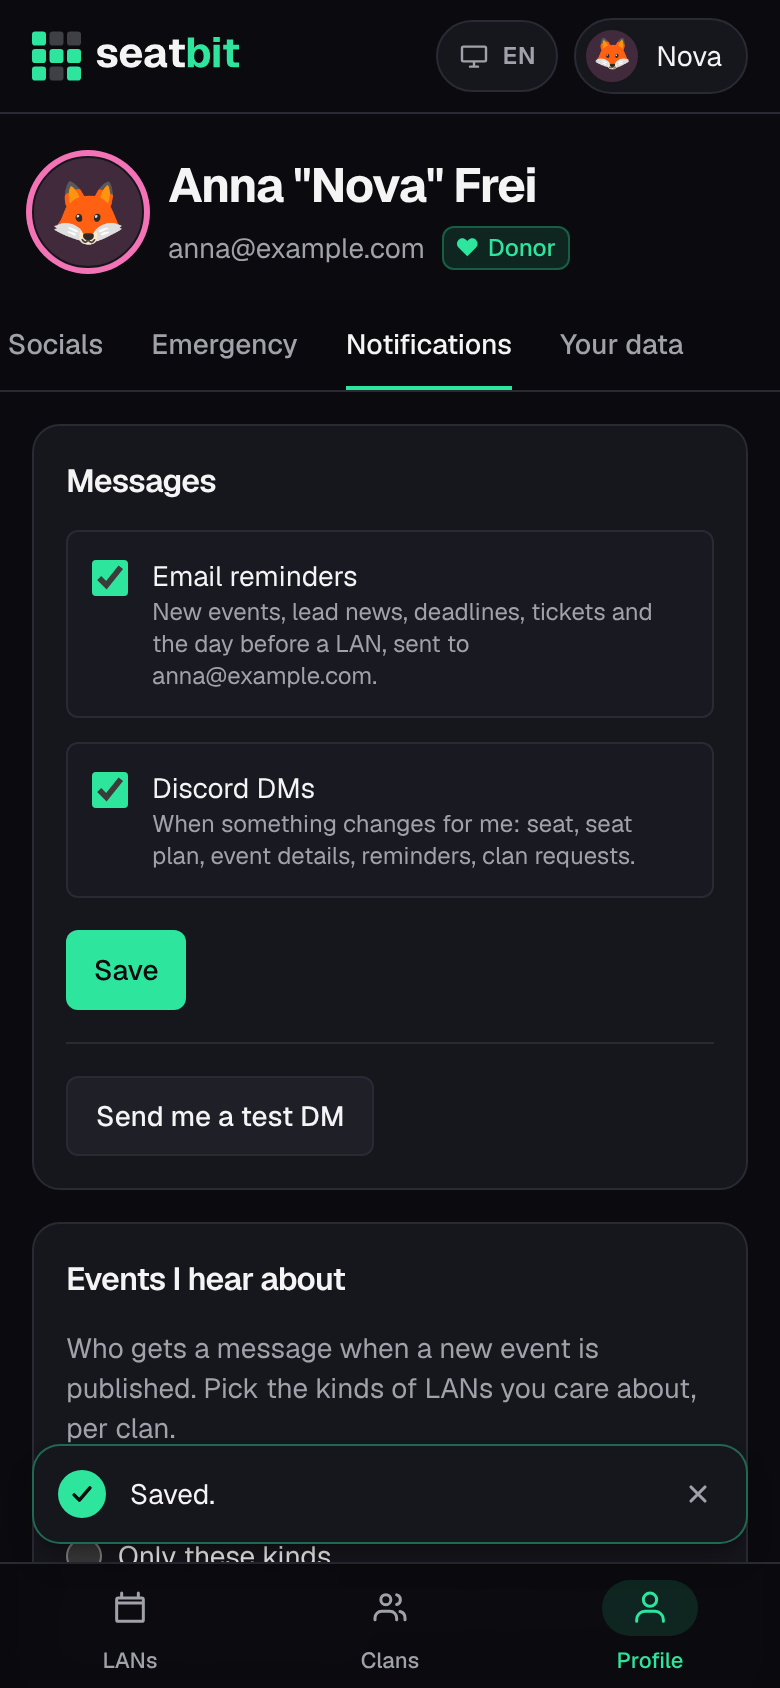
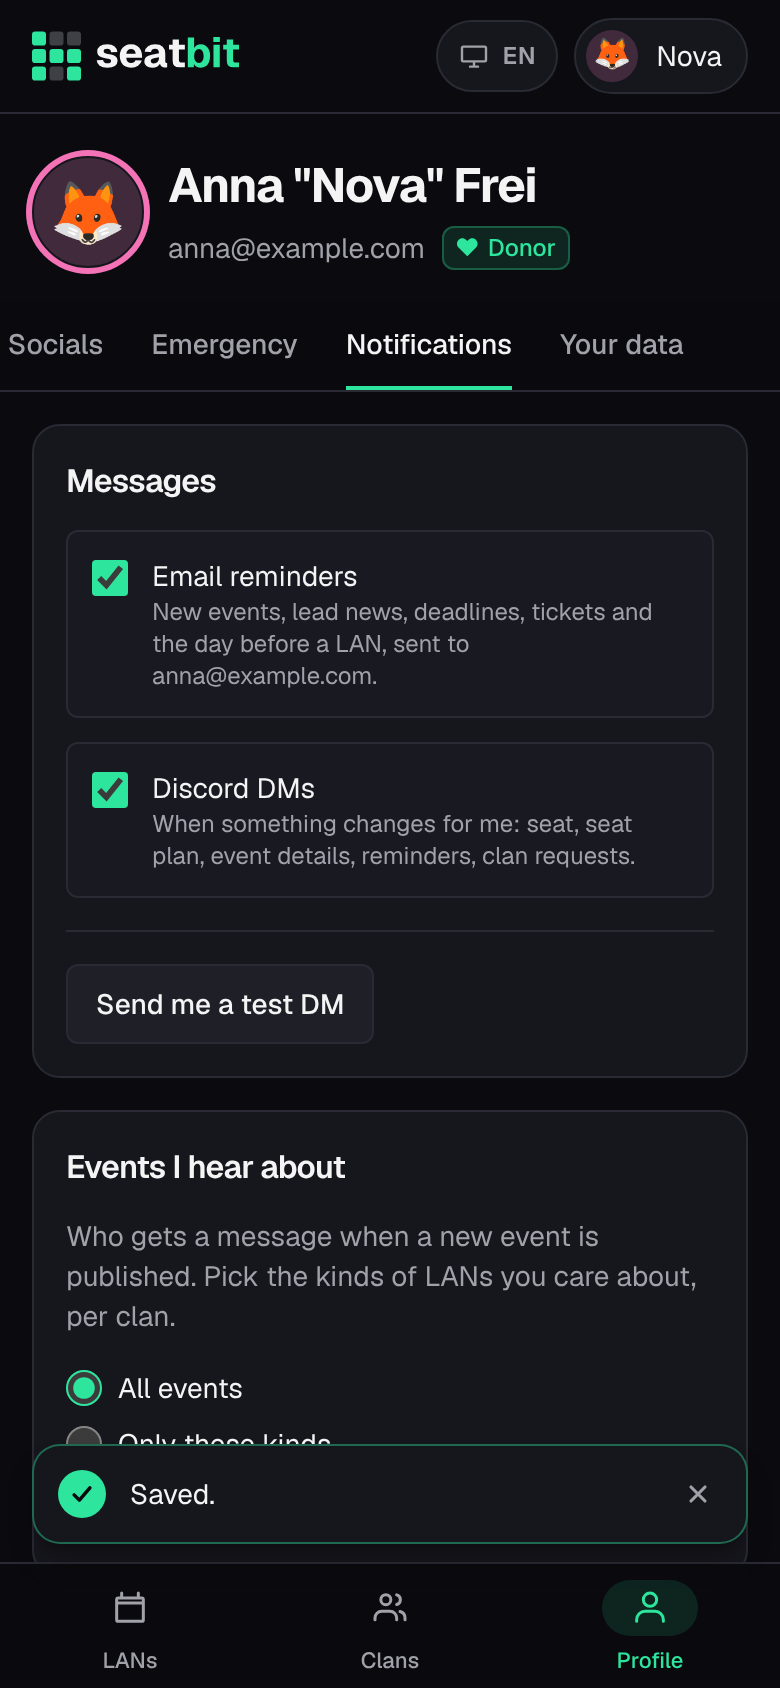
Auto-save simple settings, without a Save button
Checkboxes, radios, selects and file inputs save as soon as they change
(notifications, avatar, platform roles, the LAN type's clan to-dos,
payments on/off); nick and LAN ID save when the field loses focus or on
Enter. The toast reports the result.

Claude-Session: https://claude.ai/code/session_01Mn3pyor3MfxyQCwWyq6QEL

diff --git a/src/components/action-form.tsx b/src/components/action-form.tsx
@@ -1,5 +1,5 @@
 "use client";
-import { useActionState, useCallback, type ComponentProps } from "react";
+import { useActionState, useCallback, type ComponentProps, type FocusEvent, type FormEvent } from "react";
 import { unstable_rethrow } from "next/navigation";
 import { useT } from "@/i18n/client";
 import { actionErrorText } from "@/lib/action-error";
@@ -93,6 +93,33 @@ export function useToastAction<S, P = FormData>(action: (state: Awaited<S>, payl
   }, initial);
 }
 
+const isToggle = (el: Element) =>
+  el instanceof HTMLSelectElement || (el instanceof HTMLInputElement && ["checkbox", "radio", "file"].includes(el.type));
+const isText = (el: Element) =>
+  el instanceof HTMLTextAreaElement ||
+  (el instanceof HTMLInputElement && ["text", "search", "email", "url", "tel", "number"].includes(el.type));
+
+/**
+ * Auto-save for a form: spread on the <form>. "toggles" saves when a checkbox, radio, select or
+ * file changes (the form keeps its Save button for its text); "all" also saves a text field when
+ * it loses focus with a new value (Enter submits as usual), so the form needs no Save button.
+ * The toast says whether it worked.
+ */
+export function autoSave(mode: "toggles" | "all") {
+  return {
+    onChange: (e: FormEvent<HTMLFormElement>) => {
+      if (isToggle(e.target as Element)) e.currentTarget.requestSubmit();
+    },
+    onBlur:
+      mode === "all"
+        ? (e: FocusEvent<HTMLFormElement>) => {
+            const el = e.target as unknown as HTMLInputElement | HTMLTextAreaElement;
+            if (isText(el) && el.value !== el.defaultValue) e.currentTarget.requestSubmit();
+          }
+        : undefined,
+  };
+}
+
 /**
  * A form that runs a server action and toasts the outcome. Usable from server components.
  * `done` picks the success note ("Saved." by default); false for none, e.g. when the action
@@ -102,14 +129,17 @@ export function ActionForm({
   action,
   done = "saved",
   success,
+  auto,
   ...props
 }: Omit<ComponentProps<"form">, "action"> & {
   action: (form: FormData) => Promise<unknown>;
   done?: "saved" | "deleted" | "removed" | false;
   success?: string;
+  /** Save without a button, see autoSave(). */
+  auto?: "toggles" | "all";
 }) {
   const t = useT();
   const run = useRunAction();
   const text = success ?? (done && t(`toast.${done}`));
-  return <form {...props} action={(form) => run(() => action(form), text).then(() => undefined)} />;
+  return <form {...props} {...(auto ? autoSave(auto) : {})} action={(form) => run(() => action(form), text).then(() => undefined)} />;
 }

diff --git a/e2e/toasts.spec.ts b/e2e/toasts.spec.ts
@@ -1,5 +1,5 @@
 import { and, eq } from "drizzle-orm";
-import { attendance } from "../src/db/schema";
+import { attendance, user } from "../src/db/schema";
 import { createEvent, db, expect, test, userId } from "./fixtures";
 
 // Toasts: the note at the bottom after a save, and the reason when it failed.
@@ -7,12 +7,26 @@ test.describe("toasts", () => {
   test("a save shows a note at the bottom", async ({ as }) => {
     const page = await as("anna");
     await page.goto("/profile?tab=notifications");
-    await page.getByRole("button", { name: "Save", exact: true }).click();
+    // Saves as soon as the box changes, no Save button.
+    await expect(page.getByRole("button", { name: "Save", exact: true })).toHaveCount(0);
+    const reminders = () => db().select().from(user).where(eq(user.id, userId("anna"))).get()?.emailReminders;
+    const before = reminders();
+    await page.getByRole("checkbox", { name: /Email reminders/ }).click();
 
     const notes = page.getByRole("list", { name: "Notifications" });
     await expect(notes.getByText("Saved.")).toBeVisible();
     await notes.getByRole("button", { name: "Close" }).click();
     await expect(notes.getByText("Saved.")).toHaveCount(0);
+    await expect.poll(reminders).toBe(!before);
+  });
+
+  test("a nick saves when the field loses focus", async ({ as }) => {
+    const page = await as("anna");
+    await page.goto("/profile?tab=lans");
+    const nick = page.getByRole("textbox", { name: "Nickname" }).first();
+    await nick.fill(`Nova${Date.now() % 10000}`);
+    await nick.blur();
+    await expect(page.getByRole("list", { name: "Notifications" }).getByText("Saved.")).toBeVisible();
   });
 
   test("a failed save shows the reason instead of an error page", async ({ as }) => {

diff --git a/src/app/clans/[slug]/types/[id]/page.tsx b/src/app/clans/[slug]/types/[id]/page.tsx
@@ -3,7 +3,7 @@ import { and, eq } from "drizzle-orm";
 import { db, schema } from "@/db";
 import { deleteLanType } from "@/app/actions";
 import Link from "next/link";
-import { Card, Columns, Page, PageHeader, btnDanger, btnSecondary } from "@/components/ui";
+import { Card, Columns, Page, PageHeader, btnDanger } from "@/components/ui";
 import { LanTypeForm } from "@/components/lan-type-form";
 import { clanCan, getClanBySlug } from "@/lib/clans";
 import { requireUser } from "@/lib/session";
@@ -53,12 +53,11 @@ export default async function EditLanTypePage({ params }: PageProps<"/clans/[slu
       </Card>
       <Card id="lead-tasks" title={t("leadTasks.typeHeading")}>
         <p className="mb-3 text-sm text-muted">{t("leadTasks.typeHint")}</p>
-        <ActionForm action={setClanLeadTasks.bind(null, ty.id)} className="mb-4 flex flex-wrap items-center gap-3 text-sm">
+        <ActionForm action={setClanLeadTasks.bind(null, ty.id)} auto="toggles" className="mb-4 flex flex-wrap items-center gap-3 text-sm">
           <label className="flex items-center gap-2">
             <input type="checkbox" name="on" defaultChecked={ty.clanLeadTasks} className="accent-bit" />
             {t("leadTasks.useClanTasks")}
           </label>
-          <button className={btnSecondary}>{t("leadTasks.useClanTasksSave")}</button>
           <Link href={`/clans/${c.slug}/settings?tab=types#lead-tasks`} className="text-bit hover:underline">
             {t("leadTasks.editClan")}
           </Link>

diff --git a/src/components/notifications-form.tsx b/src/components/notifications-form.tsx
@@ -1,8 +1,7 @@
 "use client";
-import { useToastAction } from "./action-form";
+import { autoSave, useToastAction } from "./action-form";
 import { updateNotifications, type AppearanceState } from "@/app/actions";
 import { useT } from "@/i18n/client";
-import { btnPrimary } from "./ui";
 
 /** Profile › Notifications: email reminders and Discord DMs. */
 export function NotificationsForm({
@@ -20,7 +19,7 @@ export function NotificationsForm({
   const [, action, pending] = useToastAction<AppearanceState>(updateNotifications, {});
   const row = "flex cursor-pointer items-start gap-3 rounded-md border border-line bg-raised/40 p-3 text-sm";
   return (
-    <form action={action} className="space-y-3">
+    <form action={action} {...autoSave("toggles")} aria-busy={pending} className="space-y-3">
       <label className={row}>
         <input type="checkbox" name="emailReminders" defaultChecked={emailReminders} className="mt-0.5" />
         <span>
@@ -38,11 +37,6 @@ export function NotificationsForm({
           </span>
         </span>
       </label>
-      <div className="flex items-center gap-3 pt-1">
-        <button disabled={pending} className={btnPrimary}>
-          {t("common.save")}
-        </button>
-      </div>
     </form>
   );
 }

diff --git a/src/components/appearance-form.tsx b/src/components/appearance-form.tsx
@@ -1,10 +1,10 @@
 "use client";
 import { useEffect, useState } from "react";
-import { useToastAction } from "./action-form";
+import { autoSave, useToastAction } from "./action-form";
 import { updateAppearance, type AppearanceState } from "@/app/actions";
 import type { AvatarData } from "@/lib/avatars";
 import { Avatar } from "./avatar";
-import { btnPrimary, label } from "./ui";
+import { label } from "./ui";
 import { useT } from "@/i18n/client";
 
 type Style = "picture" | "icon" | "initials";
@@ -45,7 +45,7 @@ export function AppearanceForm({
     }`;
 
   return (
-    <form action={action} className="space-y-5">
+    <form action={action} {...autoSave("toggles")} aria-busy={pending} className="space-y-5">
       <div className="flex items-center gap-4">
         <Avatar data={data} size={64} />
         <div className="min-w-0 text-sm">
@@ -138,11 +138,6 @@ export function AppearanceForm({
         <p className="mt-1.5 text-xs text-muted">{t("profile.appearance.colourHint")}</p>
       </fieldset>
 
-      <div className="flex items-center gap-3">
-        <button className={btnPrimary} disabled={pending}>
-          {pending ? t("common.saving") : t("common.save")}
-        </button>
-      </div>
     </form>
   );
 }

diff --git a/scripts/screenshots.ts b/scripts/screenshots.ts
@@ -114,7 +114,9 @@ async function setMaintenance(page: Page) {
   await dates.nth(1).fill("14.11.2026 23:00");
   await dates.nth(1).press("Enter");
   await page.getByRole("button", { name: "Save" }).click();
-  await page.getByText("Saved.").waitFor();
+  // The "Saved." toast would cover part of the page; close it.
+  await page.locator("ol[aria-live] li").first().waitFor();
+  await page.locator("ol[aria-live] button").first().click();
   await page.mouse.move(0, 0);
 }
 
@@ -196,8 +198,11 @@ const SHOTS: Shot[] = [
     who: "anna",
     path: "/profile?tab=notifications",
     act: async (page) => {
-      await page.getByRole("button", { name: "Save", exact: true }).click();
+      // Notifications save as soon as a box is ticked; tick it back afterwards for the other shots.
+      const box = page.getByRole("checkbox", { name: /Discord DMs/ });
+      await box.uncheck();
       await page.locator("ol[aria-live] li").first().waitFor();
+      await box.check();
       // Let the slide-in finish.
       await page.waitForTimeout(400);
     },

diff --git a/src/components/nick-manager.tsx b/src/components/nick-manager.tsx
@@ -2,7 +2,7 @@
 import { setNick } from "@/app/actions";
 import { useT } from "@/i18n/client";
 import type { Nickname } from "@/db/schema";
-import { btnSecondary, input } from "./ui";
+import { input } from "./ui";
 import { ActionForm } from "@/components/action-form";
 
 /** One nick per scope: default (no ids), a LAN type, or a single event. Empty clears it. */
@@ -20,7 +20,7 @@ export function NickManager({
   const t = useT();
   const current = nicks.find((n) => n.lanId === lanId && n.typeId === typeId)?.nick ?? "";
   return (
-    <ActionForm action={setNick} className="flex gap-2">
+    <ActionForm action={setNick} auto="all" className="flex gap-2">
       {lanId && <input type="hidden" name="lanId" value={lanId} />}
       {typeId && <input type="hidden" name="typeId" value={typeId} />}
       <input
@@ -32,7 +32,6 @@ export function NickManager({
         className={input}
         aria-label={t("auth.nickname")}
       />
-      <button className={btnSecondary}>{t("common.save")}</button>
     </ActionForm>
   );
 }

diff --git a/src/app/admin/page.tsx b/src/app/admin/page.tsx
@@ -184,7 +184,7 @@ export default async function AdminPage() {
                 {login && u.id !== me.id && (
                   <span className="flex shrink-0 flex-wrap items-center justify-end gap-1">
                     {canSetRole(me, u) && (
-                      <ActionForm action={setPlatformRole.bind(null, u.id)} className="flex items-center gap-1">
+                      <ActionForm action={setPlatformRole.bind(null, u.id)} auto="toggles" className="flex items-center gap-1">
                         <select
                           name="role"
                           defaultValue={u.role}
@@ -197,7 +197,6 @@ export default async function AdminPage() {
                             </option>
                           ))}
                         </select>
-                        <button className={btnGhost}>{t("common.save")}</button>
                       </ActionForm>
                     )}
                     {can.suspend &&

diff --git a/src/components/lan-id-form.tsx b/src/components/lan-id-form.tsx
@@ -1,7 +1,7 @@
 import { setMyLanId } from "@/app/actions";
 import { getT } from "@/i18n/server";
 import { LAN_ID_MAX } from "@/lib/lan-accounts";
-import { btnSecondary, input } from "./ui";
+import { input } from "./ui";
 import { ActionForm } from "@/components/action-form";
 
 /**
@@ -21,7 +21,7 @@ export async function LanIdForm({
 }) {
   const t = await getT();
   return (
-    <ActionForm action={setMyLanId} className="flex gap-2">
+    <ActionForm action={setMyLanId} auto="all" className="flex gap-2">
       {lanId && <input type="hidden" name="lanId" value={lanId} />}
       {typeId && <input type="hidden" name="typeId" value={typeId} />}
       <input
@@ -34,7 +34,6 @@ export async function LanIdForm({
         aria-label={label ?? t("profile.lanId")}
         autoComplete="off"
       />
-      <button className={btnSecondary}>{t("common.save")}</button>
     </ActionForm>
   );
 }

diff --git a/src/components/payment-forms.tsx b/src/components/payment-forms.tsx
@@ -1,6 +1,6 @@
 "use client";
 import { useState, useTransition } from "react";
-import { useRunAction, useToastAction } from "./action-form";
+import { autoSave, useRunAction, useToastAction } from "./action-form";
 import type { ChargeItemStatus, ChargeKind, PaidVia } from "@/db/schema";
 import {
   addToCharge,
@@ -24,7 +24,7 @@ export function PaymentSettingsForm({ clanId, enabled, info }: { clanId: string;
   const t = useT();
   const [, action, pending] = useToastAction(savePaymentSettings.bind(null, clanId), undefined);
   return (
-    <form action={action} className="space-y-3">
+    <form action={action} {...autoSave("toggles")} className="space-y-3">
       <label className="flex items-start gap-2 text-sm">
         <input type="checkbox" name="enabled" defaultChecked={enabled} className="mt-0.5 h-4 w-4 accent-bit" />
         <span>

diff --git a/src/i18n/messages/de/leadTasks.ts b/src/i18n/messages/de/leadTasks.ts
@@ -21,7 +21,6 @@ export const leadTasks: Messages["leadTasks"] = {
   typeHeading: "Lead-To-dos",
   typeHint: "Jedes Event dieses Typs bekommt diese, nach den To-dos für alle LAN-Typen.",
   useClanTasks: "Auch die To-dos für alle LAN-Typen verwenden",
-  useClanTasksSave: "Speichern",
   none: "Noch keine To-dos.",
   dueBefore: { one: "{count} Tag vor dem Start", other: "{count} Tage vor dem Start" },
   dueAfter: { one: "{count} Tag nach dem Start", other: "{count} Tage nach dem Start" },

diff --git a/src/i18n/messages/en/leadTasks.ts b/src/i18n/messages/en/leadTasks.ts
@@ -19,7 +19,6 @@ export const leadTasks = {
   typeHeading: "Lead to-dos",
   typeHint: "Every event of this type gets these, after the to-dos for all LAN types.",
   useClanTasks: "Also use the to-dos for all LAN types",
-  useClanTasksSave: "Save",
   none: "No to-dos yet.",
   dueBefore: { one: "{count} day before the start", other: "{count} days before the start" },
   dueAfter: { one: "{count} day after the start", other: "{count} days after the start" },
